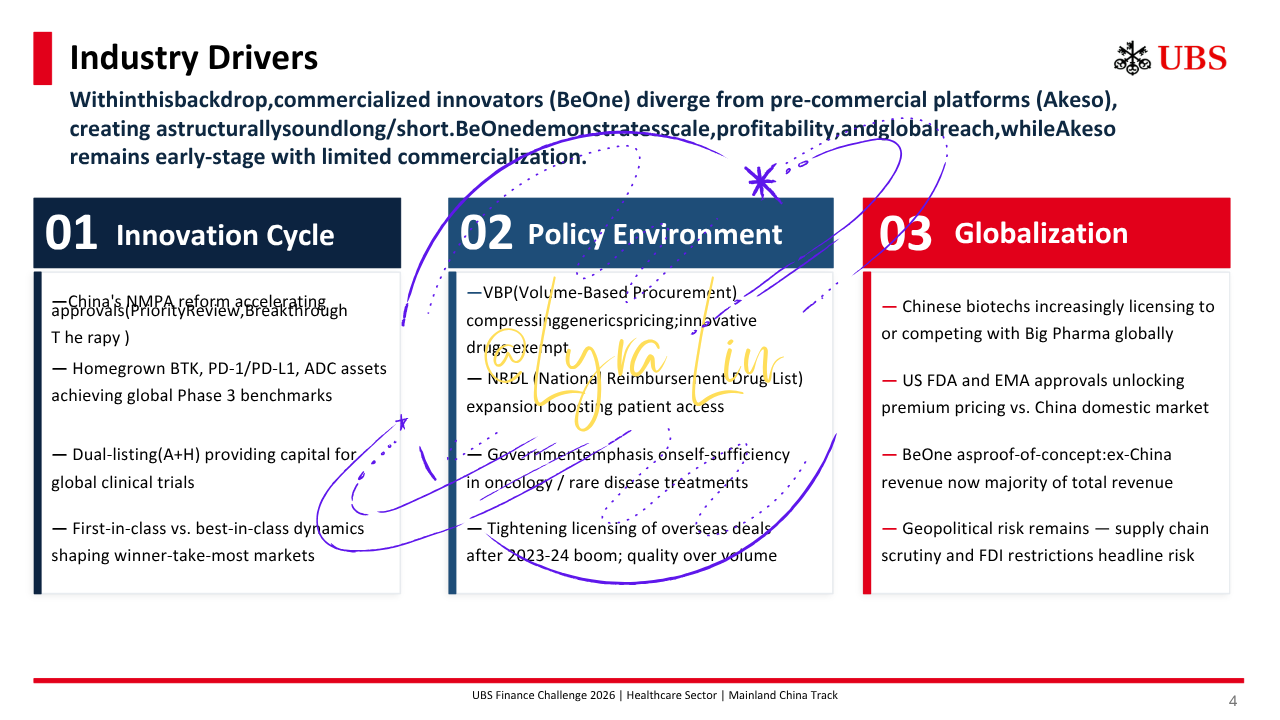
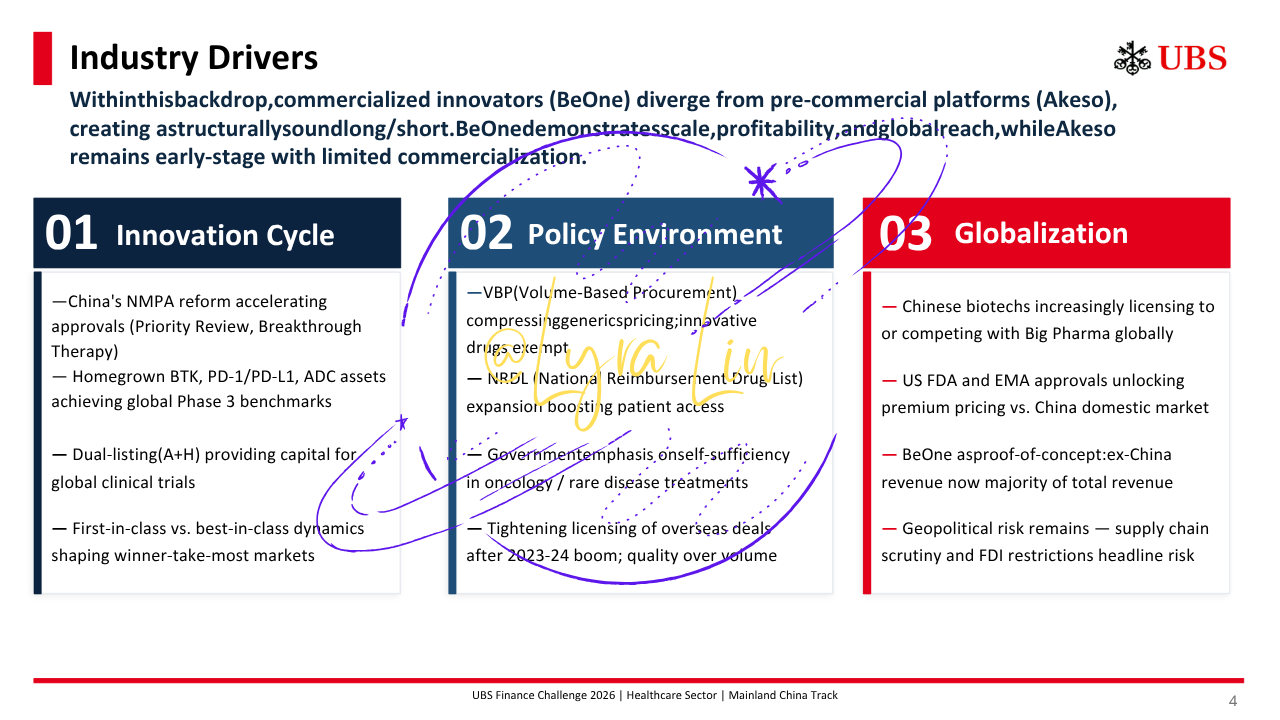
5/5-8

Changed region(s): [[0.0312, 0.3972, 0.3125, 0.5806], [0.0938, 0.6417, 0.1562, 0.7028]]

diff --git a/app/globals.css b/app/globals.css
@@ -13,6 +13,87 @@
 }
 
 @layer components {
+  .intro-reveal {
+    animation: intro-rebirth 1900ms cubic-bezier(0.2, 0.8, 0.2, 1) both;
+    transform-origin: 50% 40%;
+    filter: blur(10px) saturate(1.05) contrast(1.06);
+    opacity: 0.0;
+    will-change: transform, opacity, filter, clip-path;
+    clip-path: polygon(
+      2% 8%,
+      14% 2%,
+      28% 10%,
+      40% 3%,
+      52% 12%,
+      66% 4%,
+      80% 10%,
+      96% 6%,
+      98% 28%,
+      88% 36%,
+      97% 52%,
+      84% 64%,
+      98% 76%,
+      90% 92%,
+      70% 84%,
+      54% 96%,
+      42% 86%,
+      30% 97%,
+      18% 86%,
+      6% 94%,
+      2% 72%,
+      12% 62%,
+      3% 48%,
+      16% 36%,
+      2% 24%
+    );
+  }
+
+  @keyframes intro-rebirth {
+    0% {
+      opacity: 0;
+      transform: scale(1.02);
+      filter: blur(12px) brightness(0.72) saturate(1.08) contrast(1.08);
+      clip-path: polygon(
+        8% 18%,
+        18% 10%,
+        30% 22%,
+        42% 12%,
+        54% 26%,
+        68% 14%,
+        82% 22%,
+        92% 16%,
+        94% 30%,
+        86% 40%,
+        94% 54%,
+        82% 66%,
+        94% 78%,
+        84% 90%,
+        70% 82%,
+        56% 92%,
+        44% 82%,
+        32% 92%,
+        20% 82%,
+        10% 88%,
+        6% 70%,
+        14% 60%,
+        6% 46%,
+        16% 36%,
+        8% 26%
+      );
+    }
+    55% {
+      opacity: 1;
+      transform: scale(1.002);
+      filter: blur(2.2px) brightness(0.92) saturate(1.05) contrast(1.06);
+    }
+    100% {
+      opacity: 1;
+      transform: scale(1);
+      filter: blur(0px) brightness(1) saturate(1) contrast(1);
+      clip-path: inset(0 round 0px);
+    }
+  }
+
   .intro-splash {
     position: fixed;
     inset: 0;
@@ -126,16 +207,16 @@
   }
 
   .intro-splash--shatter {
-    animation: intro-shake 520ms cubic-bezier(0.22, 0.9, 0.2, 1) both;
+    animation: intro-shake 760ms cubic-bezier(0.22, 0.9, 0.2, 1) both;
   }
 
   .intro-splash--shatter .intro-splash__video {
-    animation: intro-fade 820ms ease both;
+    animation: intro-fade 1200ms ease both;
   }
 
   .intro-splash--shatter .intro-splash__glass {
     opacity: 1;
-    animation: intro-glass 820ms cubic-bezier(0.22, 0.9, 0.2, 1) both;
+    animation: intro-glass 1200ms cubic-bezier(0.22, 0.9, 0.2, 1) both;
   }
 
   @keyframes intro-shake {
@@ -238,11 +319,11 @@
     --reveal-delay: 0ms;
     opacity: 0;
     transform: translate3d(0, 14px, 0);
-    filter: blur(1.2px);
+    filter: blur(0.5px);
     transition:
-      opacity 420ms cubic-bezier(0.2, 0.8, 0.2, 1) var(--reveal-delay),
-      transform 420ms cubic-bezier(0.2, 0.8, 0.2, 1) var(--reveal-delay),
-      filter 420ms cubic-bezier(0.2, 0.8, 0.2, 1) var(--reveal-delay);
+      opacity 340ms cubic-bezier(0.2, 0.8, 0.2, 1) var(--reveal-delay),
+      transform 340ms cubic-bezier(0.2, 0.8, 0.2, 1) var(--reveal-delay),
+      filter 340ms cubic-bezier(0.2, 0.8, 0.2, 1) var(--reveal-delay);
     will-change: opacity, transform, filter;
   }
 
@@ -256,7 +337,7 @@
 
   .reveal--soft {
     transform: translate3d(0, 10px, 0) scale(0.992);
-    filter: blur(1px);
+    filter: blur(0.35px);
   }
 
   .reveal--shown {

diff --git a/lib/ubs-finance-2026-slides.ts b/lib/ubs-finance-2026-slides.ts
@@ -1,0 +1,30 @@
+/**
+ * UBS Finance Challenge 2026 featured carousel — assets in:
+ *   public/missions/ubs-finance-challenge-2026/
+ * Naming: slide-01.png … slide-19.png
+ */
+export function ubsFinance2026SlidePaths(): string[] {
+  const base = "/missions/ubs-finance-challenge-2026"
+  return [
+    `${base}/slide-01.png`,
+    `${base}/slide-02.png`,
+    `${base}/slide-03.png`,
+    `${base}/slide-04.png`,
+    `${base}/slide-05.png`,
+    `${base}/slide-06.png`,
+    `${base}/slide-07.png`,
+    `${base}/slide-08.png`,
+    `${base}/slide-09.png`,
+    `${base}/slide-10.png`,
+    `${base}/slide-11.png`,
+    `${base}/slide-12.png`,
+    `${base}/slide-13.png`,
+    `${base}/slide-14.png`,
+    `${base}/slide-15.png`,
+    `${base}/slide-16.png`,
+    `${base}/slide-17.png`,
+    `${base}/slide-18.png`,
+    `${base}/slide-19.png`,
+  ]
+}
+

diff --git a/components/mission-highlights.tsx b/components/mission-highlights.tsx
@@ -7,9 +7,12 @@ import { useRouter } from "next/navigation"
 import { X } from "lucide-react"
 
 import { aerotropolisSlidePaths } from "@/lib/aerotropolis-slides"
+import { citiGmc2026SlidePaths } from "@/lib/citi-gmc-2026-slides"
 import { datathonSupplyChainSlidePaths } from "@/lib/datathon-supply-chain-slides"
+import { flourishKpmg2026SlidePaths } from "@/lib/flourish-kpmg-2026-slides"
 import { getFeaturedEmbedUrl } from "@/lib/featured-embed-urls"
 import { pathologyHeSlidePaths } from "@/lib/pathology-he-slides"
+import { ubsFinance2026SlidePaths } from "@/lib/ubs-finance-2026-slides"
 import {
   Dialog,
   DialogContent,
@@ -35,6 +38,13 @@ const MISSIONS: Mission[] = [
     accent: "blue",
   },
   {
+    title: "Cost-Efficient Alpha",
+    subtitle: "Citi Global Market Challenge 2026",
+    href: "/data/citi-global-market-challenge-2026",
+    images: [...citiGmc2026SlidePaths()],
+    accent: "blue",
+  },
+  {
     title: "H&E Tumour vs Immune Cells",
     subtitle: "Pathology · Medical Imaging",
     href: "/data/pathology-image-classification",
@@ -49,24 +59,17 @@ const MISSIONS: Mission[] = [
     accent: "green",
   },
   {
-    title: "Aussie Adventure",
-    subtitle: "Hackathon · Travel / Consumer App",
-    href: "/product/aussie-adventure",
-    images: ["/competition/canvalogo.png", "/competition/advxlogo.jpg", "/competition/yolo1.png"],
-    accent: "amber",
-  },
-  {
     title: "Long BeOne, Short Akeso",
     subtitle: "UBS Finance Challenge 2026 · Equity Research",
     href: "/business/ubs-finance-challenge-2026",
-    images: ["/competition/ubslogo.png", "/competition/microsoftlogo.png", "/competition/rblogo.png"],
+    images: [...ubsFinance2026SlidePaths()],
     accent: "green",
   },
   {
-    title: "Technology Risk & ESG Consulting",
-    subtitle: "Industry Internship · Banking / Risk / ESG",
-    href: "/business/mercer-business-analyst",
-    images: ["/experience/mercer.png", "/competition/commonwealth.png", "/competition/rblogo.png"],
+    title: "Flourish — KPMG Case Competition",
+    subtitle: "KPMG 2026",
+    href: "/business/flourish-kpmg-case-competition-2026",
+    images: [...flourishKpmg2026SlidePaths()],
     accent: "green",
   },
 ]

diff --git a/lib/citi-gmc-2026-slides.ts b/lib/citi-gmc-2026-slides.ts
@@ -1,0 +1,25 @@
+/**
+ * Citi Global Market Challenge 2026 featured carousel — assets in:
+ *   public/missions/citi-global-market-challenge-2026/
+ * Naming: slide-01.png … slide-14.png
+ */
+export function citiGmc2026SlidePaths(): string[] {
+  const base = "/missions/citi-global-market-challenge-2026"
+  return [
+    `${base}/slide-01.png`,
+    `${base}/slide-02.png`,
+    `${base}/slide-03.png`,
+    `${base}/slide-04.png`,
+    `${base}/slide-05.png`,
+    `${base}/slide-06.png`,
+    `${base}/slide-07.png`,
+    `${base}/slide-08.png`,
+    `${base}/slide-09.png`,
+    `${base}/slide-10.png`,
+    `${base}/slide-11.png`,
+    `${base}/slide-12.png`,
+    `${base}/slide-13.png`,
+    `${base}/slide-14.png`,
+  ]
+}
+

diff --git a/lib/flourish-kpmg-2026-slides.ts b/lib/flourish-kpmg-2026-slides.ts
@@ -1,0 +1,19 @@
+/**
+ * KPMG Flourish Case Competition 2026 featured carousel — assets in:
+ *   public/missions/flourish-kpmg-case-competition-2026/
+ * Naming: slide-01.png … slide-08.png
+ */
+export function flourishKpmg2026SlidePaths(): string[] {
+  const base = "/missions/flourish-kpmg-case-competition-2026"
+  return [
+    `${base}/slide-01.png`,
+    `${base}/slide-02.png`,
+    `${base}/slide-03.png`,
+    `${base}/slide-04.png`,
+    `${base}/slide-05.png`,
+    `${base}/slide-06.png`,
+    `${base}/slide-07.png`,
+    `${base}/slide-08.png`,
+  ]
+}
+

diff --git a/components/intro-splash.tsx b/components/intro-splash.tsx
@@ -18,6 +18,7 @@ export function IntroSplash({ children }: IntroSplashProps) {
   const lowPower = useLowPowerWebGL()
   const [show, setShow] = useState(false)
   const [shattering, setShattering] = useState(false)
+  const [revealing, setRevealing] = useState(false)
   const [progress, setProgress] = useState(0)
   const vRef = useRef<HTMLVideoElement | null>(null)
 
@@ -74,18 +75,23 @@ export function IntroSplash({ children }: IntroSplashProps) {
   const beginExit = () => {
     if (shattering) return
     setShattering(true)
+    // Delay the "rebirth" so it is visible after the overlay fades.
+    window.setTimeout(() => setRevealing(true), 700)
     try {
       sessionStorage.setItem("introPlayed", "1")
     } catch {}
     window.setTimeout(() => {
       setShow(false)
       setShattering(false)
-    }, 900)
+    }, 1350)
+    window.setTimeout(() => {
+      setRevealing(false)
+    }, 3200)
   }
 
   return (
     <>
-      {children}
+      <div className={cn(revealing && "intro-reveal")}>{children}</div>
       {show ? (
         <div
           className={cn(

diff --git a/components/skills-section.tsx b/components/skills-section.tsx
@@ -140,6 +140,7 @@ function CompactToolTile({
   accent: ToolGroupAccent
 }) {
   const needsDarkPlate = slug === "figma" || slug === "notion" || slug === "axure"
+  const needsBig = slug === "supabase"
   const ring =
     accent === "sky"
       ? "hover:border-sky-400/45 hover:shadow-[0_0_18px_rgba(56,189,248,0.22)]"
@@ -166,7 +167,10 @@ function CompactToolTile({
             alt=""
             width={96}
             height={96}
-            className="h-10 w-10 object-contain md:h-11 md:w-11"
+            className={cn(
+              "object-contain",
+              needsBig ? "h-12 w-12 md:h-[3.25rem] md:w-[3.25rem]" : "h-10 w-10 md:h-11 md:w-11"
+            )}
             style={{
               filter:
                 "saturate(1.06) contrast(1.08) brightness(1.1) drop-shadow(0 0 10px rgba(148,163,184,0.12))",

diff --git a/app/layout.tsx b/app/layout.tsx
@@ -4,6 +4,7 @@ import { GeistSans } from "geist/font/sans";
 import { GeistMono } from "geist/font/mono";
 import "./globals.css";
 import { CursorTrail } from "@/components/cursor-trail";
+import ShipConsole from "@/components/ShipConsole";
 
 export const metadata: Metadata = {
   title: {
@@ -35,6 +36,7 @@ export default function RootLayout({ children }: { children: React.ReactNode }) 
         <GalaxyBackground />
         <CursorTrail />
         {children}
+        <ShipConsole />
       </body>
     </html>
   );